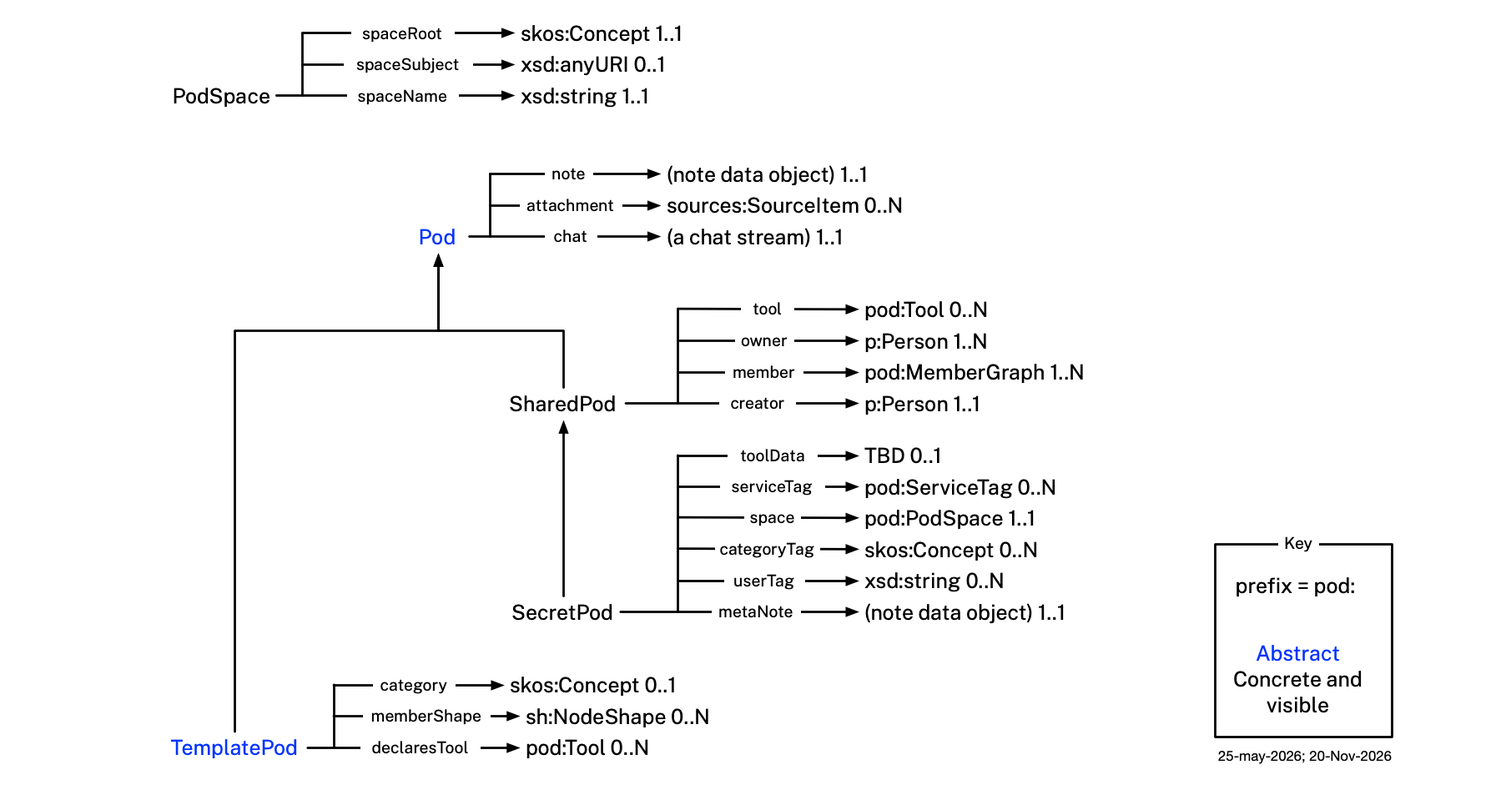
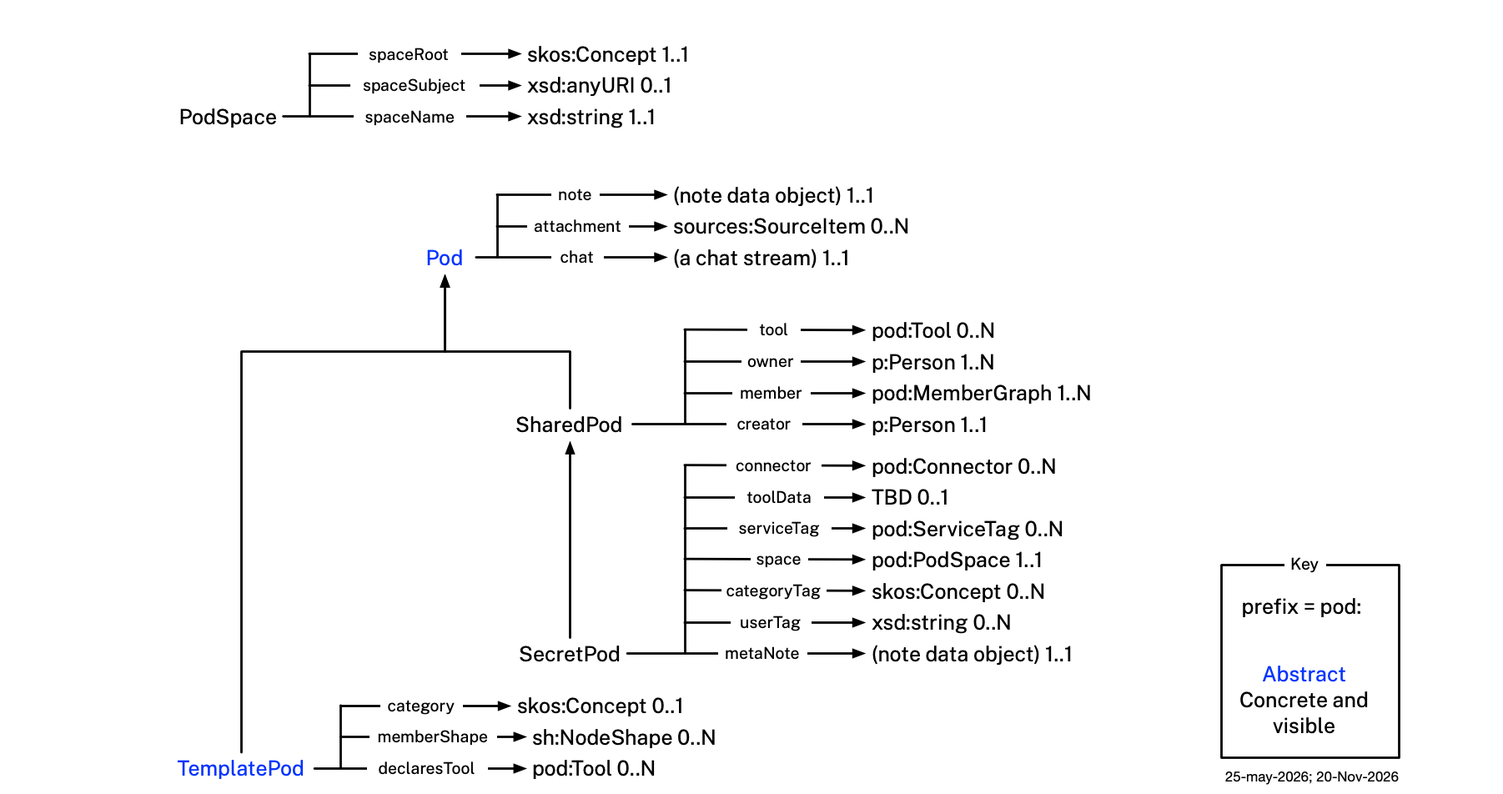
Redraw pod.png and tool.png for connectors; document toolData; add open items
pod.png draws connector off SecretPod plus a documentation-only toolData
placeholder; tool.png draws the Connector hierarchy beside Tool.
toolData is documented like metaNote in pod.ttl, README.md and PNG-3.
open-items.md fixes its item count and adds two questions: how a member
adds a connector by hand, and what toolData holds.

Changed region(s): [[0.1245, 0.2157, 0.7471, 0.9862], [0.8093, 0.678, 0.9339, 0.9862], [0.1245, 0.0308, 0.4669, 0.1541]]

diff --git a/integrity.md b/integrity.md
@@ -196,9 +196,9 @@ The 13 diagrams are: `example/images/people.png`, `example/images/people2.png`, 
 
 **PNG-2 — Diagram ↔ files ↔ example.md coverage**: Every numbered graph circle in any of the 13 pod diagrams (`example/images/`) must have (a) a corresponding embedded graph section — a `tpod.member` or `tpod.tool[].graph` entry plus its `### Graph NN` body section — inside a pod-databook file under `example/pods/`, and (b) a row in one of the tables in the **Graphs** section of `example.md`. Conversely, every row in those tables must correspond to an embedded graph that actually exists — and to that alone: a row does **not** need a numbered circle in any diagram. The 13 diagrams are not required to draw every graph; every graph is documented — a row in `example.md`'s **Graphs** section and a PNG in `example/graphs/images/` (FS-2 and FS-3) — whether or not any diagram draws it. If a circle exists in a diagram but has no embedded graph or `example.md` row, report it rather than creating a graph to match: the DataBooks are authoritative (PNG-1).
 
-**PNG-3 — `pod.ttl` matches `images/pod-ontology/pod.png`**: `Pod` shows `attachment` (to a `sources:SourceItem` box, drawn **0..N**, matching `pod:attachment`'s range — `other/sources.ttl`, referenced by name with no `owl:imports` — and its unbounded cardinality: the files every member of the pod receives, never a member's own private ones). The two classification properties, `pod:category` and `pod:categoryTag`, both range over the classificatory `skos:Concept` (a concept in `podcat:PodCategoryScheme`, pod-categories.ttl, or in a category extension's own scheme); pods do not nest, so there is no tree-position class for either to be confused with. Both record what kind of thing a pod is, and neither needs `owl:imports pod-categories.ttl` (referenced by name only, mirroring `pod:creator`'s identical pattern). The diagram shows two arrows off `Pod` with no counterpart in `pod.ttl` — `note` (to a placeholder box, `(note data object) 1..1` — the note is held in the app's own internal format, not as a Markdown file) and `chat` (to a placeholder box, `(a chat stream) 1..1` — every pod always has a chat stream, possibly empty, held inside the app rather than in the pod's folder) — this is a deliberate, accepted exception to 12a/12b below: README.md already describes both properties' intended semantics (see the Documentation-only Properties section) as planned, but `pod.ttl` itself has no `pod:note`/`pod:chat` declaration yet — neither is ever reified as a triple in any real graph. The same exception covers a third arrow, `metaNote` off `SecretPod` (to a placeholder box, `(note data object) 1..1` — each member's own private note about the pod, in the note's format but never sent to another member). `Pod` (abstract, blue) carries `attachment` (plus the still-open `note`/`chat` arrows above). `Pod` splits into two disjoint kinds (`owl:disjointWith` — a pod is always exactly one, never both): `TemplatePod` (abstract, blue, a reusable class-level template) carries `category` (to a `skos:Concept` box, **0..1** — the one concept the template is for, carried by every template except `ctpl:UserDefinedTemplatePod`, which carries none), `memberShape` (to a `sh:NodeShape` box, 0..N) and `declaresTool` (to a `pod:Tool` box, 0..N); `SharedPod` (concrete, black, an actual pod as every member holds it alike) carries `member` (to a `pod:MemberGraph` box, 1..N, no fixed upper bound), `tool` (to a `pod:Tool` box, 0..N), `creator` (to a `p:Person` box, 1..1) and `owner` (to its own `p:Person` box, 1..N, no fixed upper bound — every arrow in this diagram carries its own target label, so `creator` and `owner` are drawn as two separate `p:Person` boxes rather than sharing one). `SharedPod` has one subclass, `SecretPod` (concrete, black, a member's own copy of the pod, which is how every pod a user holds is typed), drawn below it with a subclass arrow, carrying what that member alone holds: `connector` (to a `pod:Connector` box, 0..N — links to capabilities on the member's own device, never shared), `space` (to a `pod:PodSpace` box, **1..1**, which in turn carries `spaceRoot` (to a `skos:Concept` box, 1..1), `spaceName` (to an `xsd:string` box, 1..1) and `spaceSubject` (to an `xsd:anyURI` box, 0..1) — `pod.ttl`'s Pod Spaces section), and the three tag properties `categoryTag` (to a `skos:Concept` box, **0..N**), `userTag` (to an `xsd:string` box, 0..N) and `serviceTag` (to a `pod:ServiceTag` box, 0..N) — `pod.ttl`'s Pod Tags section — plus the documentation-only `metaNote` above. The three tag arrows and `space` hang off `SecretPod`, never off `Pod` or `SharedPod`: their domain is `pod:SecretPod` deliberately, since none of them is ever sent to another member and a `TemplatePod` seeds no tags. `category` and `categoryTag` hang off different boxes for the same reason: `category` names the one concept a template is for and never appears on a held pod, while `categoryTag` is a member's own classification of a pod, zero or more concepts. The three tags point at different kinds of target because they are different shapes: a category tag is a concept, a user tag is a bare literal, and a service tag is a value node. `ServiceTag` and the `Tool` hierarchy are **not** drawn in this diagram: each has its own, `images/pod-ontology/tag.png` (PNG-6) and `images/pod-ontology/tool.png` (PNG-7). Here they appear only as arrow targets — a `pod:ServiceTag` box off `serviceTag`, and a `pod:Tool` box off both `tool` and `declaresTool` — never as members of the `Pod` hierarchy, which neither has an `rdfs:subClassOf` relation to. There is no `shape` arrow off `SharedPod` or `SecretPod` at all — a pod stores no shape of its own; the `shape` property that does exist has domain `pod:Graph` and is drawn in `graph.png` (PNG-4) (each graph's own `pod:shape`, set from the template that supplied the graph, is the validation authority for that graph; there is no single template of a pod to derive a pod-level shape from, a pod carrying zero or more category tags) — and no pod-level `subject` arrow off either of them — there is no such property (a pod's own subject is derived from its tools' own `pod:formTopic` values, or failing those from `member`'s own `pod:subject` values, rather than stored on the pod itself; those two are real, surviving properties, scoped to `pod:Tool` and `pod:MemberGraph` rather than to a pod — see PNG-4). `TemplatePod` has no subclasses of its own, and no individual is ever typed both `TemplatePod` and `SharedPod` (and so never `SecretPod` either) — every template individual in `pod-category-templates.ttl` is typed solely `TemplatePod`. No arrow points from `Pod`, `TemplatePod`, `SharedPod` or `SecretPod` to any tree-position box at all — pods do not nest, and both classification arrows point to `skos:Concept`. This diagram is the ontology-level (not example-data) picture of `pod:Pod`'s structure — the member-composition hierarchy and its content-linking properties. A single "Key" box in the lower right carries three swatches, in this order — blue "Abstract", black "Concrete and visible", green "Concrete but hidden" — and the class-box colors track them exactly: blue is `pod:abstract true` in `pod.ttl` (`Pod` and `TemplatePod`, and nothing else here) and black is every remaining concrete class. The Key lists exactly the swatches this diagram actually uses — two here, since the one green ("concrete but hidden") class, `ServiceTag`, is drawn in `tag.png` instead. A concrete class may only be green where `pod.ttl` or `README.md` actually says the user never sees it; absent that, it is black. Unlike PNG-1 (example diagrams, where the diagram always wins), this check does not presume which side is authoritative when the two disagree — surface the discrepancy and ask:
+**PNG-3 — `pod.ttl` matches `images/pod-ontology/pod.png`**: `Pod` shows `attachment` (to a `sources:SourceItem` box, drawn **0..N**, matching `pod:attachment`'s range — `other/sources.ttl`, referenced by name with no `owl:imports` — and its unbounded cardinality: the files every member of the pod receives, never a member's own private ones). The two classification properties, `pod:category` and `pod:categoryTag`, both range over the classificatory `skos:Concept` (a concept in `podcat:PodCategoryScheme`, pod-categories.ttl, or in a category extension's own scheme); pods do not nest, so there is no tree-position class for either to be confused with. Both record what kind of thing a pod is, and neither needs `owl:imports pod-categories.ttl` (referenced by name only, mirroring `pod:creator`'s identical pattern). The diagram shows two arrows off `Pod` with no counterpart in `pod.ttl` — `note` (to a placeholder box, `(note data object) 1..1` — the note is held in the app's own internal format, not as a Markdown file) and `chat` (to a placeholder box, `(a chat stream) 1..1` — every pod always has a chat stream, possibly empty, held inside the app rather than in the pod's folder) — this is a deliberate, accepted exception to 12a/12b below: README.md already describes both properties' intended semantics (see the Documentation-only Properties section) as planned, but `pod.ttl` itself has no `pod:note`/`pod:chat` declaration yet — neither is ever reified as a triple in any real graph. The same exception covers two arrows off `SecretPod`: `metaNote` (to a placeholder box, `(note data object) 1..1` — each member's own private note about the pod, in the note's format but never sent to another member) and `toolData` (to a placeholder box, `TBD 0..1` — data of the member's own about the pod's tools, not yet defined). `Pod` (abstract, blue) carries `attachment` (plus the still-open `note`/`chat` arrows above). `Pod` splits into two disjoint kinds (`owl:disjointWith` — a pod is always exactly one, never both): `TemplatePod` (abstract, blue, a reusable class-level template) carries `category` (to a `skos:Concept` box, **0..1** — the one concept the template is for, carried by every template except `ctpl:UserDefinedTemplatePod`, which carries none), `memberShape` (to a `sh:NodeShape` box, 0..N) and `declaresTool` (to a `pod:Tool` box, 0..N); `SharedPod` (concrete, black, an actual pod as every member holds it alike) carries `member` (to a `pod:MemberGraph` box, 1..N, no fixed upper bound), `tool` (to a `pod:Tool` box, 0..N), `creator` (to a `p:Person` box, 1..1) and `owner` (to its own `p:Person` box, 1..N, no fixed upper bound — every arrow in this diagram carries its own target label, so `creator` and `owner` are drawn as two separate `p:Person` boxes rather than sharing one). `SharedPod` has one subclass, `SecretPod` (concrete, black, a member's own copy of the pod, which is how every pod a user holds is typed), drawn below it with a subclass arrow, carrying what that member alone holds: `connector` (to a `pod:Connector` box, 0..N — links to capabilities on the member's own device, never shared), `space` (to a `pod:PodSpace` box, **1..1**, which in turn carries `spaceRoot` (to a `skos:Concept` box, 1..1), `spaceName` (to an `xsd:string` box, 1..1) and `spaceSubject` (to an `xsd:anyURI` box, 0..1) — `pod.ttl`'s Pod Spaces section), and the three tag properties `categoryTag` (to a `skos:Concept` box, **0..N**), `userTag` (to an `xsd:string` box, 0..N) and `serviceTag` (to a `pod:ServiceTag` box, 0..N) — `pod.ttl`'s Pod Tags section — plus the documentation-only `metaNote` and `toolData` above. The three tag arrows and `space` hang off `SecretPod`, never off `Pod` or `SharedPod`: their domain is `pod:SecretPod` deliberately, since none of them is ever sent to another member and a `TemplatePod` seeds no tags. `category` and `categoryTag` hang off different boxes for the same reason: `category` names the one concept a template is for and never appears on a held pod, while `categoryTag` is a member's own classification of a pod, zero or more concepts. The three tags point at different kinds of target because they are different shapes: a category tag is a concept, a user tag is a bare literal, and a service tag is a value node. `ServiceTag` and the `Tool` hierarchy are **not** drawn in this diagram: each has its own, `images/pod-ontology/tag.png` (PNG-6) and `images/pod-ontology/tool.png` (PNG-7). Here they appear only as arrow targets — a `pod:ServiceTag` box off `serviceTag`, and a `pod:Tool` box off both `tool` and `declaresTool` — never as members of the `Pod` hierarchy, which neither has an `rdfs:subClassOf` relation to. There is no `shape` arrow off `SharedPod` or `SecretPod` at all — a pod stores no shape of its own; the `shape` property that does exist has domain `pod:Graph` and is drawn in `graph.png` (PNG-4) (each graph's own `pod:shape`, set from the template that supplied the graph, is the validation authority for that graph; there is no single template of a pod to derive a pod-level shape from, a pod carrying zero or more category tags) — and no pod-level `subject` arrow off either of them — there is no such property (a pod's own subject is derived from its tools' own `pod:formTopic` values, or failing those from `member`'s own `pod:subject` values, rather than stored on the pod itself; those two are real, surviving properties, scoped to `pod:Tool` and `pod:MemberGraph` rather than to a pod — see PNG-4). `TemplatePod` has no subclasses of its own, and no individual is ever typed both `TemplatePod` and `SharedPod` (and so never `SecretPod` either) — every template individual in `pod-category-templates.ttl` is typed solely `TemplatePod`. No arrow points from `Pod`, `TemplatePod`, `SharedPod` or `SecretPod` to any tree-position box at all — pods do not nest, and both classification arrows point to `skos:Concept`. This diagram is the ontology-level (not example-data) picture of `pod:Pod`'s structure — the member-composition hierarchy and its content-linking properties. A single "Key" box in the lower right carries three swatches, in this order — blue "Abstract", black "Concrete and visible", green "Concrete but hidden" — and the class-box colors track them exactly: blue is `pod:abstract true` in `pod.ttl` (`Pod` and `TemplatePod`, and nothing else here) and black is every remaining concrete class. The Key lists exactly the swatches this diagram actually uses — two here, since the one green ("concrete but hidden") class, `ServiceTag`, is drawn in `tag.png` instead. A concrete class may only be green where `pod.ttl` or `README.md` actually says the user never sees it; absent that, it is black. Unlike PNG-1 (example diagrams, where the diagram always wins), this check does not presume which side is authoritative when the two disagree — surface the discrepancy and ask:
 
-- **12a** — every property arrow shown off `Pod` (`attachment`) has a corresponding `pod:` property in `pod.ttl` with `rdfs:domain pod:Pod` (the diagram's `note` and `chat` arrows are accepted exceptions — see above: both are planned properties, not yet added to `pod.ttl`; so is `metaNote` off `SecretPod`). Every arrow off `TemplatePod` (`category`, `memberShape`, `declaresTool`) has `rdfs:domain pod:TemplatePod`, every arrow off `SharedPod` (`creator`, `owner`, `member`, `tool`) has `rdfs:domain pod:SharedPod`, every arrow off `SecretPod` but `metaNote` (`connector`, `space`, `categoryTag`, `userTag`, `serviceTag`) has `rdfs:domain pod:SecretPod`, and every arrow off `PodSpace` (`spaceRoot`, `spaceName`, `spaceSubject`) has `rdfs:domain pod:PodSpace`. No arrow may appear off the `pod:Tool` or `pod:ServiceTag` target boxes here — those belong to PNG-7 and PNG-6. No `shape` arrow should appear off `SharedPod` or `SecretPod` at all — a pod stores no shape of its own, and `pod:shape`'s domain is `pod:Graph`, so it belongs in `graph.png` (PNG-4) (each graph carries its own; a pod stores none). No pod-level `subject` arrow should appear off either of them — that property doesn't exist (see PNG-3's own note above); `pod:subject` is real, but scoped to `pod:MemberGraph`, not to a pod (see PNG-4). Each arrow's target type in the diagram must match the property's `rdfs:range` — `member`'s is `pod:MemberGraph` and `formGraph`'s is `pod:FormGraph` — deliberately *different* classes, one per list, `tool`'s is `pod:Tool`, `connector`'s is `pod:Connector`, `declaresTool`'s is the union of the two (drawn as a `pod:Tool` box, or as two boxes), `creator`'s and `owner`'s are both `p:Person` (two separate arrows, each with its own target box — what must match is the range, not the box count), `categoryTag`'s is `skos:Concept`, `userTag`'s is `xsd:string` and `serviceTag`'s is `pod:ServiceTag` (three separate arrows, each 0..N — not one shared arrow, since a tag's kind is carried entirely by which property holds it, and no two share a target), `tagNamespace`'s, `tagKey`'s and `tagValue`'s are all `xsd:string` (three separate arrows, each 1..1), `attachment`'s is `sources:SourceItem` (0..N — a stale `(file)` placeholder target is a discrepancy), `category`'s is `skos:Concept` itself (value is a named category-concept individual, scoped via `skos:inScheme` to `podcat:PodCategoryScheme` or a category extension's own scheme — no class-value punning, since pod-categories.ttl's hierarchy is SKOS, not OWL classes), `memberShape`'s is `sh:NodeShape` (0..N, not 0..1). `formShape` does **not** appear in this diagram at all — its domain is `pod:Tool`, so it is drawn in `tool.png` (PNG-7).
+- **12a** — every property arrow shown off `Pod` (`attachment`) has a corresponding `pod:` property in `pod.ttl` with `rdfs:domain pod:Pod` (the diagram's `note` and `chat` arrows are accepted exceptions — see above: both are planned properties, not yet added to `pod.ttl`; so are `metaNote` and `toolData` off `SecretPod`). Every arrow off `TemplatePod` (`category`, `memberShape`, `declaresTool`) has `rdfs:domain pod:TemplatePod`, every arrow off `SharedPod` (`creator`, `owner`, `member`, `tool`) has `rdfs:domain pod:SharedPod`, every arrow off `SecretPod` but `metaNote` and `toolData` (`connector`, `space`, `categoryTag`, `userTag`, `serviceTag`) has `rdfs:domain pod:SecretPod`, and every arrow off `PodSpace` (`spaceRoot`, `spaceName`, `spaceSubject`) has `rdfs:domain pod:PodSpace`. No arrow may appear off the `pod:Tool` or `pod:ServiceTag` target boxes here — those belong to PNG-7 and PNG-6. No `shape` arrow should appear off `SharedPod` or `SecretPod` at all — a pod stores no shape of its own, and `pod:shape`'s domain is `pod:Graph`, so it belongs in `graph.png` (PNG-4) (each graph carries its own; a pod stores none). No pod-level `subject` arrow should appear off either of them — that property doesn't exist (see PNG-3's own note above); `pod:subject` is real, but scoped to `pod:MemberGraph`, not to a pod (see PNG-4). Each arrow's target type in the diagram must match the property's `rdfs:range` — `member`'s is `pod:MemberGraph` and `formGraph`'s is `pod:FormGraph` — deliberately *different* classes, one per list, `tool`'s is `pod:Tool`, `connector`'s is `pod:Connector`, `declaresTool`'s is the union of the two (drawn as a `pod:Tool` box, or as two boxes), `creator`'s and `owner`'s are both `p:Person` (two separate arrows, each with its own target box — what must match is the range, not the box count), `categoryTag`'s is `skos:Concept`, `userTag`'s is `xsd:string` and `serviceTag`'s is `pod:ServiceTag` (three separate arrows, each 0..N — not one shared arrow, since a tag's kind is carried entirely by which property holds it, and no two share a target), `tagNamespace`'s, `tagKey`'s and `tagValue`'s are all `xsd:string` (three separate arrows, each 1..1), `attachment`'s is `sources:SourceItem` (0..N — a stale `(file)` placeholder target is a discrepancy), `category`'s is `skos:Concept` itself (value is a named category-concept individual, scoped via `skos:inScheme` to `podcat:PodCategoryScheme` or a category extension's own scheme — no class-value punning, since pod-categories.ttl's hierarchy is SKOS, not OWL classes), `memberShape`'s is `sh:NodeShape` (0..N, not 0..1). `formShape` does **not** appear in this diagram at all — its domain is `pod:Tool`, so it is drawn in `tool.png` (PNG-7).
 - **12b** — every `pod:` property defined in `pod.ttl` appears as an arrow in the diagram, under the box matching its domain — `Pod`, `TemplatePod`, `SharedPod`, `SecretPod`, `Tool`, `Connector` (or one of its `Form`/`Calendar`/`Canvas`/`Contacts`/`Map`/`Browser` subclasses), or `ServiceTag` (catches new properties added to the ttl but never drawn, or drawn under the wrong box).
 - **12c** — the class hierarchy `Pod` → `TemplatePod`/`SharedPod` (the two `owl:disjointWith` one another) and `SharedPod` → `SecretPod` shown in the diagram matches `pod.ttl`'s actual `rdfs:subClassOf` relationships (by class local name, not just position). No class hangs below `SecretPod`: a pod that carries a tool is not a different kind of pod, only one carrying `tool` values. `pod:Tool` takes no part in this hierarchy — it has no `rdfs:subClassOf` relation to `Pod` or to any of its kinds, so no subclass line may connect the two; a `SharedPod` *points at* tools via `pod:tool`, and a `TemplatePod` at declared ones via `pod:declaresTool`, but neither contains them as subclasses. `ServiceTag` likewise takes no part in this hierarchy: it is a value-node class `pod:serviceTag` points at, with no `rdfs:subClassOf` in `pod.ttl`, so no subclass line may connect it to `Pod` or to any of `Pod`'s kinds, and its green fill is a display fact about its instances rather than anything `pod:abstract` records.
 

diff --git a/README.md b/README.md
@@ -109,13 +109,15 @@ Classification is kind-specific rather than sitting on `pod:Pod`: a `pod:Templat
 
 #### Documentation-only Properties
 
-Two more concepts appear off `Pod` in `images/pod-ontology/pod.png`'s diagram, and a third off `SecretPod`, described here for their intended semantics, but documentation only — none is an actual property declared in `pod.ttl`, and none is ever reified as a triple in any real graph (see integrity.md's PNG-3 for this open, accepted discrepancy):
+Two more concepts appear off `Pod` in `images/pod-ontology/pod.png`'s diagram, and two more off `SecretPod`, described here for their intended semantics, but documentation only — none is an actual property declared in `pod.ttl`, and none is ever reified as a triple in any real graph (see integrity.md's PNG-3 for this open, accepted discrepancy):
 
 - **`pod:note`** — a pod's single note, shown in the app's **Note area**, 1..1: a rich-text document with Markdown-like formatting that every member may edit concurrently. It is held in the app's own internal format rather than as Markdown, a format suited to its links and to merging concurrent edits, and it can be exported as a Markdown file. It carries two kinds of link: pod links to other pods, resolved by the target's id, and block links to the pod's own tools, graphs and attachments. See [Introduction to Pods](#introduction-to-pods) above, [Pod Contents](app-behavior.md#pod-contents) and [Note Area](app-behavior.md#note-area) in app-behavior.md, and [Wikilink-Triggered Pod Creation](app-behavior.md#wikilink-triggered-pod-creation). Beside it, each member also has a meta note of their own, `pod:metaNote` below.
 
 - **`pod:chat`** — a pod's single chat area, 1..1: its group chat stream, visible to every member, plus direct messages between two members. Every pod always has one, even if empty.
 
 - **`pod:metaNote`** — a member's own **meta note** about the pod, 1..1, drawn off `SecretPod`: a personal note in the same format as `pod:note`, shown in the same Note area but private to that member. It is per-member state in the member's own copy, like their private files, and never reaches another member, owner included — which is why it sits on `pod:SecretPod` rather than on `pod:Pod` beside `pod:note`, which is shared.
+
+- **`pod:toolData`** — a placeholder, 0..1, drawn off `SecretPod`: data of the member's own about the pod's tools, kept in their copy and never shared. What it holds, and its target type, are not yet defined (see `notes/open-items.md`).
 
 #### Tags
 

diff --git a/notes/open-items.md b/notes/open-items.md
@@ -4,7 +4,7 @@
 
 ## Apple Contacts connector
 
-Raised 2026-11-20 while reviewing [apple-contacts-connector.md](apple-contacts-connector.md). Both open items affect `app-behavior.md`'s Apple Contacts section as well as the note.
+Raised 2026-11-20 while reviewing [apple-contacts-connector.md](apple-contacts-connector.md). Items 1 and 2 affect `app-behavior.md`'s Apple Contacts section as well as the note; item 3 affects the note alone.
 
 ### 1. Where an exported value's vCard label comes from
 
@@ -35,3 +35,26 @@ The anchor stores a person's IRI, which means something only in the user's own c
 - the note should say that re-identification works only when re-importing into that same copy;
 - a card exported for the user themselves needs separate handling;
 - `TPOD` in the field name should be confirmed or replaced.
+
+## Connectors
+
+Raised 2026-11-20 with the connector split ([connectors 20-nov-2026.md](<connectors 20-nov-2026.md>)).
+
+### 4. How a member adds a connector by hand
+
+A member gains a connector by Lazy Instantiation when a category tag they add declares one (`podcat:IdVerification` declares a `pod:Browser`), and the app adds a `pod:Browser` itself during the credential flows. Nothing settles how a member adds one deliberately, say to start syncing a pod with their address book. The Add Tool dialog offers tools only, and connectors are explicitly excluded from it. `app-behavior.md`'s Connectors section currently says a member adds one "from the pod's own menu", which was written without a decision. Options:
+
+- a separate **Add Connector** action beside Add Tool;
+- connectors offered in the Add Tool dialog, marked as the member's own;
+- no per-pod action at all: a connector is switched on once per device (in settings, say), and the app attaches it to whichever pods it applies to.
+
+Once decided, fix the wording in `app-behavior.md`.
+
+### 5. What `pod:toolData` holds
+
+`pod.png` draws a `toolData → TBD 0..1` arrow off `SecretPod`, documented for now as a documentation-only placeholder, like `pod:metaNote`. To decide:
+
+- what it holds: a member's own data about the pod's shared tools (such as private settings, or a draft not yet claimed), connector state, or both;
+- its target type, and whether 0..1 means one node for all of the pod's tools or should be one per tool;
+- whether it then becomes a real property in `pod.ttl`.
+
